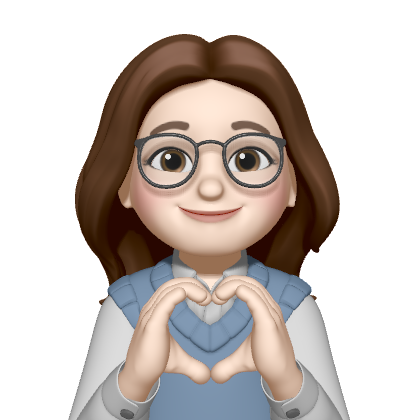
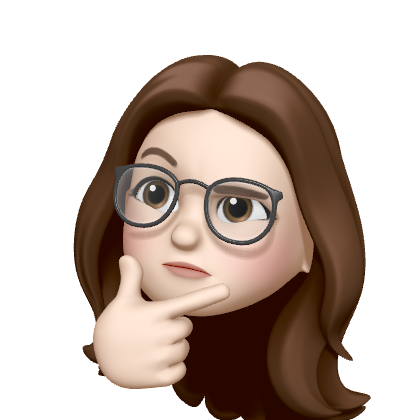
0207

diff --git a/templates/dashboard.html b/templates/dashboard.html
@@ -30,6 +30,38 @@
   </head>
 
   <body class="nav-md">
+    <div id="image-container">
+      <img src="{{ url_for('static', filename = 'face/heehyun.png')}}" alt="Image">
+      <div id="speech-bubble">
+        <p>Hello, I'm a chatbot.</p>
+      </div>
+      <style>
+        #image-container {
+          position: fixed;
+          bottom: 40px;
+          right: 40px;
+        }
+        #image-container img {
+          width: 150px;
+          height: 150px;
+        }
+        #speech-bubble {
+          display: none;
+          position: absolute;
+          bottom: 140px;
+          right: 20px;
+          top: -115px;
+          background-color: #fff;
+          padding: 10px;
+          border-radius: 10px;
+          box-shadow: 2px 2px 10px rgba(0, 0, 0, 0.1);
+        }
+        
+        #image-container:hover #speech-bubble {
+          display: block;
+        }
+      </style>
+    </div>
     <div class="container body">
       <div class="main_container">
         <div class="col-md-3 left_col">

diff --git a/templates/home.html b/templates/home.html
@@ -41,6 +41,45 @@
   * Author: BootstrapMade.com
   * License: https://bootstrapmade.com/license/
   ======================================================== -->
+  <div id="image-container">
+    <img src="{{ url_for('static', filename = 'face/jieun.png')}}" alt="Image">
+    <div id="speech-bubble">
+      <p>Hello, I'm a chatbot.</p>
+    </div>
+  </div>
+  
+  <style>
+    #image-container {
+      position: fixed;
+      bottom: 40px;
+      right: 40px;
+    }
+    #image-container img {
+      width: 150px;
+      height: 150px;
+      cursor: pointer;
+    }
+    #speech-bubble {
+      display: none;
+      position: absolute;
+      bottom: 140px;
+      right: 20px;
+      top: -115px;
+      background-color: #fff;
+      padding: 10px;
+      border-radius: 10px;
+      box-shadow: 2px 2px 10px rgba(0, 0, 0, 0.1);
+    }
+    
+    #image-container:hover #speech-bubble {
+      display: block;
+    }
+  </style>
+  
+  
+  
+
+  
 </head>
 
 <body>

diff --git a/templates/2nd_test.html b/templates/2nd_test.html
@@ -44,7 +44,7 @@
   <h5><p style="text-align:center;">글자의 색깔이 무엇인지 입력해주세요</h5>
   <br>
   <div id="image-container">
-    <img src="{{ url_for('static', filename = 'face/heehyun.png')}}" alt="Image">
+    <img src="{{ url_for('static', filename = 'face/junen.png')}}" alt="Image">
     <div id="speech-bubble">
       <p>Hello, I'm a chatbot.</p>
     </div>
